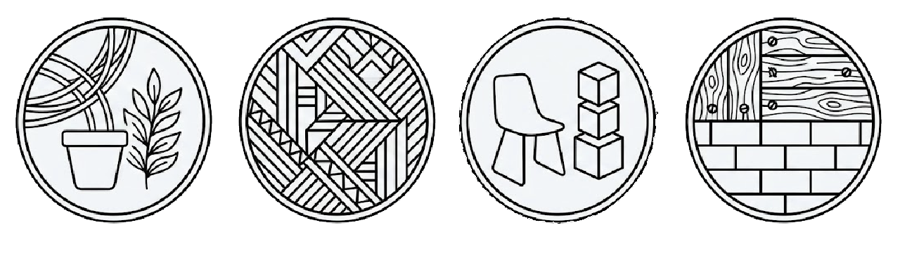
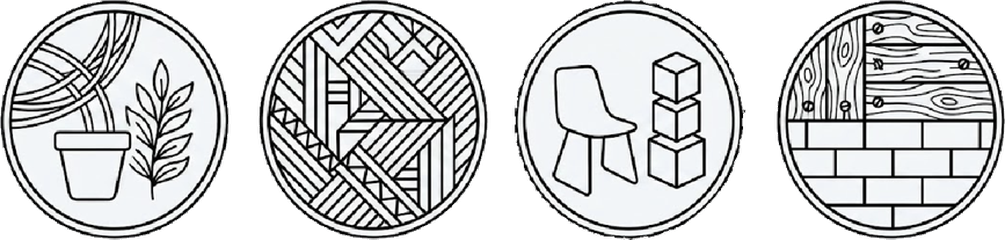
Add files via upload

diff --git a/assets/styles.css b/assets/styles.css
@@ -261,6 +261,8 @@ img { max-width: 100%; display: block; }
   font-family: var(--sans); font-size: 1rem; background: #fff;
 }
 .form textarea { min-height: 120px; resize: vertical; }
+/* Formulari su card bianca dentro sezioni scure: etichette grigio scuro (stesso grigio del footer) */
+.pains .form label { color: var(--ink); }
 .tab-forms { display: flex; gap: .6rem; flex-wrap: wrap; margin-bottom: 1.6rem; }
 
 /* ---------- Founders ---------- */
@@ -448,31 +450,33 @@ body.page-petrol .eyebrow { color: var(--teal); }
   .nav-links .nav-petrol { color: var(--teal); }
 }
 
-/* "Accedi" nel menu a scomparsa (solo mobile, ultima voce) */
+/* "Accedi" nel menu a scomparsa (solo mobile, ultima voce)
+   Stesso carattere delle altre voci, ma color corallo (anche da loggato) */
 .nav-links .nav-login { display: none; }
 @media (max-width: 1150px) {
-  .site-header.open .nav-links .nav-login { display: block; font-weight: 600; }
-  .site-header.open .nav-links .nav-login.logged { font-style: italic; font-family: var(--serif); }
+  .site-header.open .nav-links .nav-login { display: block; color: var(--coral); }
+  .site-header.open .nav-links .nav-login.logged { color: var(--coral); }
 }
 
 /* Riquadro citazione a forma di capsula */
 .quote--capsule { border-radius: 999px; padding: 2.2rem 3.2rem; }
 
-/* Riquadro evidenziato "Con una dose di..." */
+/* Testo "Con una dose di..." — corsivo colorato senza riquadro,
+   più grande del testo sopra (rapporto 10:13) */
 .hl-box {
-  background: #fff; border-radius: var(--radius-lg); padding: 1.5rem 2rem;
-  font-family: var(--serif); font-style: italic; font-size: 1.12rem; line-height: 1.55;
-  max-width: 70ch; margin-top: 1.2rem; box-shadow: var(--shadow-sm);
+  font-family: var(--serif); font-style: italic; font-size: 1.3rem; line-height: 1.55;
+  max-width: 70ch; margin-top: 1.4rem;
 }
-body.page-rosa .hl-box   { border: 2px solid var(--pink-d);  color: var(--pink-dd); }
-body.page-coral .hl-box  { border: 2px solid var(--coral);   color: var(--coral-d); }
-body.page-petrol .hl-box { border: 2px solid var(--teal);    color: var(--teal-d); }
+body.page-rosa .hl-box   { color: var(--pink-dd); font-size: 1.5rem; }
+body.page-coral .hl-box  { color: var(--coral); }
+body.page-petrol .hl-box { color: var(--teal); }
 
-/* Vignetta inserto in corsivo (petrolio) */
+/* Vignetta inserto in corsivo (petrolio) — a forma di capsula allungata,
+   sfondo bianco, scritta color petrolio, stessa dimensione del testo */
 .aside-note {
-  font-family: var(--serif); font-style: italic; color: var(--teal-d);
-  background: #fff; border-left: 5px solid var(--teal); border-radius: var(--radius);
-  padding: 1.3rem 1.5rem; box-shadow: var(--shadow-sm);
+  font-family: var(--serif); font-style: italic; color: var(--teal); font-size: 1rem;
+  background: #fff; border-radius: 999px;
+  padding: 1.7rem 2.6rem; box-shadow: var(--shadow-sm);
 }
 
 /* Card prezzi (sostituiscono le tabelle) */
@@ -493,9 +497,26 @@ body.page-petrol .hl-box { border: 2px solid var(--teal);    color: var(--teal-d
 .pline b { white-space: nowrap; }
 .pcard--alt { background: var(--teal-l); border-color: var(--teal); }
 
-/* Microtest illustrati (corallo) */
+/* Card consulenze (corallo): sfondo corallo chiaro chiaro + testo corallo scuro */
+.pcard--coral { background: var(--coral-l); border-color: var(--coral-l); }
+.pcard--coral h4, .pcard--coral .pline, .pcard--coral .pline b, .pcard--coral .cond { color: var(--coral-d); }
+.pcard--coral .pline { border-bottom-color: rgba(222,52,19,.28); }
+/* Card "shopping list" e "proposte linee guida": sfondo giallo chiaro + testo corallo */
+.pcard--giallo { background: var(--yellow-l); border-color: var(--yellow-l); }
+.pcard--giallo h4, .pcard--giallo .pline, .pcard--giallo .pline b, .pcard--giallo .cond { color: var(--coral); }
+.pcard--giallo .pline { border-bottom-color: rgba(255,76,43,.28); }
+
+/* Microtest illustrati (corallo) — card affiancate su desktop, in verticale su mobile */
+.mt-cards { display: grid; grid-template-columns: repeat(3,1fr); gap: 1.5rem; margin-top: 2rem; }
+.mt-cards .mt-item {
+  margin-top: 0; background: #fff; border: 1px solid var(--line);
+  border-radius: var(--radius); padding: 1.6rem; box-shadow: var(--shadow-sm);
+}
+@media (max-width: 900px) {
+  .mt-cards { grid-template-columns: 1fr; }
+}
 .mt-item { margin-top: 2rem; }
-.mt-item img { height: 54px; width: auto; }
+.mt-item img { height: 60px; width: auto; max-width: 100%; object-fit: contain; }
 .mt-item h4 { font-family: var(--serif); font-size: 1.25rem; margin-top: .6rem; }
 .mt-item p { color: var(--muted); max-width: 74ch; margin-top: .4rem; }
 .mt-item .durata { color: var(--coral); font-weight: 600; font-size: .9rem; margin-top: .4rem; }
@@ -507,11 +528,31 @@ body.page-petrol .hl-box { border: 2px solid var(--teal);    color: var(--teal-d
   background: #9ccfca; top: .5em;
 }
 
-/* Domande in corsivo nella home (stile .prov) */
-.hero .prov-lines { font-family: var(--serif); font-style: italic; font-size: 1.15rem; color: var(--teal-d); margin-top: 1rem; }
+/* Domande in corsivo nella home (stile .prov) — più grandi del testo non in corsivo (rapporto 10:12) */
+.hero .prov-lines { font-family: var(--serif); font-style: italic; font-size: 1.44rem; color: var(--teal-d); margin-top: 1rem; }
 .hero .prov-lines p { margin: 0; font-size: inherit; color: inherit; }
 
 @media (max-width: 900px) {
   .pcards, .pcards--2 { grid-template-columns: 1fr; }
   .quote--capsule { border-radius: var(--radius-lg); padding: 2rem; }
+  .aside-note { border-radius: var(--radius-lg); padding: 1.4rem 1.7rem; }
+}
+
+/* ===========================================================
+   Chi siamo — capsula accanto al testo (desktop) / vicina al
+   testo (mobile) + fascia unica immagine-testo
+   =========================================================== */
+.about-hero-grid { display: grid; grid-template-columns: 1.15fr .85fr; gap: 2.4rem; align-items: center; }
+.about-hero-grid .quote--capsule { margin: 0; }
+@media (max-width: 900px) {
+  .about-hero-grid { grid-template-columns: 1fr; gap: 1.4rem; }
+  .about-hero-grid .quote--capsule { margin-top: .4rem; }
+}
+
+.philo-band { display: grid; grid-template-columns: 1fr 1fr; align-items: stretch; background: var(--white); }
+.philo-band > img { width: 100%; height: 100%; object-fit: cover; }
+.philo-band .philo-text { padding: clamp(2.2rem, 5vw, 4.5rem); align-self: center; }
+@media (max-width: 900px) {
+  .philo-band { grid-template-columns: 1fr; }
+  .philo-band > img { max-height: 320px; }
 }

diff --git a/chi-siamo.html b/chi-siamo.html
@@ -33,21 +33,22 @@
 </header>
 
 <section class="page-hero ph--teal">
-  <div class="wrap">
-    <p class="eyebrow" data-i18n="nav.about">Quiénes somos</p>
-    <h1 data-i18n="about.h1">No miramos solo tu casa.<br>Te miramos a ti.</h1>
-    <p class="tag" data-i18n="about.lead">Somos una de las primeras start-ups de neuroarquitectura. Acompañamos el proceso proyectual en el diseño de ambientes domésticos, con atención al impacto real que producen en el cuerpo y en la mente de quien los habita.</p>
+  <div class="wrap about-hero-grid">
+    <div>
+      <p class="eyebrow" data-i18n="nav.about">Quiénes somos</p>
+      <h1 data-i18n="about.h1">No miramos solo tu casa.<br>Te miramos a ti.</h1>
+      <p class="tag" data-i18n="about.lead">Somos una de las primeras start-ups de neuroarquitectura. Acompañamos el proceso proyectual en el diseño de ambientes domésticos, con atención al impacto real que producen en el cuerpo y en la mente de quien los habita.</p>
+    </div>
+    <div class="quote quote--capsule"><p data-i18n="about.quote">“Diseñar con conciencia no es un capricho: es una herramienta para vivir mejor.”</p></div>
   </div>
 </section>
 
-<section class="section section--tight">
-  <div class="wrap">
-    <div class="quote quote--capsule"><p data-i18n="about.quote">“Diseñar con conciencia no es un capricho: es una herramienta para vivir mejor.”</p></div>
-    <div style="max-width:74ch;margin:2.6rem auto 0">
-      <h2 data-i18n="about.philoTitle">Diseñar con conciencia</h2>
-      <p class="muted" style="margin-top:1rem" data-i18n="about.philo1">Creamos Cápsula porque tu casa no debería ser solo un refugio funcional o un lugar “bonito”, sino un agente activo de tu bienestar físico y mental. <em>Vamos a la raíz: a quién eres y a cómo, de forma única, percibes el entorno, según tu historia personal y la biología de tu sistema nervioso.</em></p>
-      <p class="muted" style="margin-top:1rem" data-i18n="about.philo2">Así encontramos tu “cápsula”: la herramienta para diseñar un hogar a tu medida y potenciar tu bienestar, con un enfoque de <em>evidence-based design</em>.</p>
-    </div>
+<section class="philo-band">
+  <img src="assets/img/chi-siamo-divano.jpg" alt="Relajarse en el sofá de casa">
+  <div class="philo-text">
+    <h2 data-i18n="about.philoTitle">Diseñar con conciencia</h2>
+    <p class="muted" style="margin-top:1rem" data-i18n="about.philo1">Creamos Cápsula porque tu casa no debería ser solo un refugio funcional o un lugar “bonito”, sino un agente activo de tu bienestar físico y mental. <em>Vamos a la raíz: a quién eres y a cómo, de forma única, percibes el entorno, según tu historia personal y la biología de tu sistema nervioso.</em></p>
+    <p class="muted" style="margin-top:1rem" data-i18n="about.philo2">Así encontramos tu “cápsula”: la herramienta para diseñar un hogar a tu medida y potenciar tu bienestar, con un enfoque de <em>evidence-based design</em>.</p>
   </div>
 </section>
 

diff --git a/coral.html b/coral.html
@@ -38,7 +38,7 @@
     <h1><span class="pill-ico pill-ico--coral"></span>Cápsula Coral</h1>
     <p class="muted" style="max-width:70ch;margin-top:1.2rem" data-i18n="coral.p1">Cuando se diseña una casa, las decisiones se multiplican enseguida: colores, materiales, estilo, distribución, funciones, atmósferas. El riesgo es partir de imágenes, tendencias o gustos del momento, sin saber si esas elecciones respetan tu funcionamiento neuropsicológico y contribuyen de verdad a tu bienestar cotidiano.</p>
     <div class="hl-box" data-i18n="coral.hl">Con una dosis de Cápsula Coral recibirás una guía de diseño a tu medida, con indicaciones que responden a tu manera única de habitar. No esperes más y compra ya el test completo.</div>
-    <p class="muted" style="max-width:70ch;margin-top:1.2rem" data-i18n="coral.p3">Si ya has hecho la prueba de test gratuita, podrás desbloquear los otros dos microtests y todos los resultados que componen tu <strong style="color:var(--coral);font-family:var(--serif);font-style:italic">Carta Habitacional</strong>.</p>
+    <p class="muted" style="max-width:70ch;margin-top:1.2rem" data-i18n="coral.p3">Si ya has hecho la prueba de test gratuita, podrás desbloquear los otros dos microtests y todos los resultados que componen tu <strong style="color:var(--coral);font-family:var(--serif);font-style:italic;font-size:1.1em">Carta Habitacional</strong>.</p>
     <p class="muted" style="max-width:70ch;margin-top:1rem" data-i18n="coral.p4">Estará en tus manos decidir si usarla como herramienta de autoproyección guiada o como base para el servicio de asesoría profesional que más te convenga.</p>
     <div class="hero-cta">
       <a class="btn btn--capsule btn--coralc" href="#precios-test" data-i18n="coral.cta1">Compra el test completo</a>
@@ -53,6 +53,7 @@
   <div class="wrap">
     <p class="muted" style="max-width:74ch;margin:1.2rem auto 0" data-i18n="coral.t1desc">Efectuando el pago, entrarás en tu página personal, donde podrás realizar los tres microtests audiovisuales y consultar en todo momento los resultados de tu Carta Habitacional (¡y también los de los demás miembros de tu núcleo habitacional!)</p>
 
+    <div class="mt-cards">
     <div class="mt-item">
       <img src="assets/img/test-profili.png" alt="Perfiles funcionales">
       <h4 data-i18n="coral.mt1t">Test perfil funcional</h4>
@@ -71,6 +72,7 @@
       <h4 data-i18n="coral.mt3t">Test estilo de interiorismo</h4>
       <p data-i18n="coral.mt3d">Identifica el estilo de interiorismo más adecuado (con su materialboard) del encuentro entre perfil funcional y las experiencias de vida que la persona asocia a cada acción cotidiana, definiendo también el concept en palabras clave (emociones-atmósferas) para las tres zonas funcionales principales de la casa.</p>
       <p class="durata" data-i18n="coral.mtTime">Duración: 2-3 min.</p>
+    </div>
     </div>
 
     <div class="pcards" style="margin-top:2.4rem">
@@ -107,13 +109,13 @@
       <p class="note" data-i18n="coral.t2note">Incluye un único encuentro de conocimiento por videollamada/presencial + únicamente 3 alternativas de diseño; no está prevista ninguna revisión. Consulta el precio para encuentros extra de revisión y eventuales modificaciones.</p>
       <p style="margin:.8rem 0"><a class="btn btn--link" href="#" download data-i18n="cta.sample">Ver Sample ↓</a></p>
       <div class="pcards pcards--2">
-        <div class="pcard">
+        <div class="pcard pcard--coral">
           <h4 data-i18n="coral.pcRoom">Estancia</h4>
           <div class="pline"><span data-i18n="coral.pc1">9–15 m²</span><b>250 €</b></div>
           <div class="pline"><span data-i18n="coral.pc2">15–20 m²</span><b>300 €</b></div>
           <div class="pline"><span data-i18n="coral.pc3">Desde 21 m²</span><b>350 €</b></div>
         </div>
-        <div class="pcard">
+        <div class="pcard pcard--coral">
           <h4 data-i18n="coral.pcHouse">Casa entera</h4>
           <div class="pline"><span>30–50 m²</span><b>400 €</b></div>
           <div class="pline"><span>51–80 m²</span><b>550 €</b></div>
@@ -131,17 +133,17 @@
       <p class="note" data-i18n="coral.t3note">Incluye un único encuentro de conocimiento por videollamada/presencial + 3 propuestas iniciales + un total de revisiones que se establece y comunica desde el inicio.</p>
       <p style="margin:.8rem 0"><a class="btn btn--link" href="#" download data-i18n="cta.sample">Ver Sample ↓</a></p>
       <div class="pcards">
-        <div class="pcard">
+        <div class="pcard pcard--coral">
           <h4 data-i18n="coral.pj1">Casa Low Budget</h4>
           <div class="pline"><span data-i18n="coral.pjUp50">Hasta 50 m²</span><b>2.500 €</b></div>
           <div class="pline"><span data-i18n="coral.pjOver50">Más de 50 m²</span><b>+40–50 €/m²</b></div>
         </div>
-        <div class="pcard">
+        <div class="pcard pcard--coral">
           <h4 data-i18n="coral.pj2">Casa Calidad</h4>
           <div class="pline"><span data-i18n="coral.pjUp50">Hasta 50 m²</span><b>4.000 €</b></div>
           <div class="pline"><span data-i18n="coral.pjOver50">Más de 50 m²</span><b>+70–90 €/m²</b></div>
         </div>
-        <div class="pcard">
+        <div class="pcard pcard--giallo">
           <h4>Shopping List</h4>
           <div class="pline"><span data-i18n="coral.pjSup">Suplemento</span><b>+10–20 €/m²</b></div>
           <p class="cond" data-i18n="coral.pjSupN">Según el nivel de detalle y la gestión de las compras.</p>
@@ -155,20 +157,20 @@
       <p class="lead" style="font-size:1.05rem;margin-top:.2rem" data-i18n="coral.t4sub">Asesoría para la elección de la casa</p>
       <p class="muted" style="margin-top:.7rem" data-i18n="coral.t4desc">Para tener un parecer cualificado sobre las casas que estás valorando comprar y elegir con mayor conciencia la más a tu medida. Ofrecemos acompañamiento a las visitas (online o en vivo) y parecer favorable/desfavorable con posibles soluciones de diseño (en formato de líneas guía).</p>
       <div class="pcards">
-        <div class="pcard">
+        <div class="pcard pcard--coral">
           <h4 data-i18n="coral.v1">Acompañamiento visitas online</h4>
           <div class="pline"><span data-i18n="coral.vp3">Pack 3 visitas</span><b>150 €</b></div>
           <div class="pline"><span data-i18n="coral.vp5">Pack 5 visitas</span><b>230 €</b></div>
           <div class="pline"><span data-i18n="coral.vpx">Visita extra</span><b>60 €</b></div>
         </div>
-        <div class="pcard">
+        <div class="pcard pcard--coral">
           <h4 data-i18n="coral.v2">Acompañamiento visitas presenciales</h4>
           <p class="cond" data-i18n="coral.v2n">Solo Barcelona</p>
           <div class="pline"><span data-i18n="coral.vp3">Pack 3 visitas</span><b>250 €</b></div>
           <div class="pline"><span data-i18n="coral.vp5">Pack 5 visitas</span><b>390 €</b></div>
           <div class="pline"><span data-i18n="coral.vpx">Visita extra</span><b>90 €</b></div>
         </div>
-        <div class="pcard pcard--alt">
+        <div class="pcard pcard--giallo">
           <h4 data-i18n="coral.v3">Propuestas de líneas guía y parecer final</h4>
           <div class="pline"><span data-i18n="coral.v3a">1 casa</span><b>200 €</b></div>
           <div class="pline"><span data-i18n="coral.v3b">Pack 3 casas</span><b>450 €</b></div>
@@ -235,7 +237,7 @@ CAPSULA_I18N.add({
     "coral.prov":"You’ve bought a home, you’re looking for one, or you need to start a project and want a clear direction?",
     "coral.p1":"When designing a home, the decisions pile up fast: colours, materials, style, layout, functions, atmospheres. The risk is starting from images, trends or the tastes of the moment, without knowing whether those choices respect your neuropsychological functioning and truly contribute to your everyday wellbeing.",
     "coral.hl":"With a dose of Cápsula Coral you’ll receive a design guide made for you, with indications that answer your unique way of inhabiting. Don’t wait — buy the full test now.",
-    "coral.p3":"If you’ve already taken the free test trial, you can unlock the other two microtests and all the results that make up your <strong style='color:var(--coral);font-family:var(--serif);font-style:italic'>Living Chart</strong>.",
+    "coral.p3":"If you’ve already taken the free test trial, you can unlock the other two microtests and all the results that make up your <strong style='color:var(--coral);font-family:var(--serif);font-style:italic;font-size:1.1em'>Living Chart</strong>.",
     "coral.p4":"It will then be up to you to decide whether to use it as a guided self-design tool or as the basis for the professional advisory service that suits you best.",
     "coral.cta1":"Buy the full test","coral.cta2":"Request advisory",
     "coral.t1Eyebrow":"Mi casa a mi medida TEST","coral.t1":"Buy the full test",
@@ -281,7 +283,7 @@ CAPSULA_I18N.add({
     "coral.prov":"Hai comprato casa, la stai cercando o devi iniziare un progetto e hai bisogno di una direzione chiara?",
     "coral.p1":"Quando si progetta una casa, le decisioni diventano subito tante: colori, materiali, stile, distribuzione, funzioni, atmosfere. Il rischio è partire da immagini, tendenze o gusti del momento, senza sapere se quelle scelte rispettano il tuo funzionamento neuropsicologico e contribuiscono davvero al tuo benessere quotidiano.",
     "coral.hl":"Con una dose di Cápsula Corallo riceverai una guida progettuale su misura per te, con indicazioni che rispondano al tuo modo unico di abitare. Non aspettare e acquista subito il test completo.",
-    "coral.p3":"Se hai già fatto la prova di test gratuita, potrai sbloccare gli altri due microtest e tutti i risultati che compongono la tua <strong style='color:var(--coral);font-family:var(--serif);font-style:italic'>Carta Abitativa</strong>.",
+    "coral.p3":"Se hai già fatto la prova di test gratuita, potrai sbloccare gli altri due microtest e tutti i risultati che compongono la tua <strong style='color:var(--coral);font-family:var(--serif);font-style:italic;font-size:1.1em'>Carta Abitativa</strong>.",
     "coral.p4":"Starà a te poi decidere se usarla come strumento di autoprogettazione guidata oppure come base per il servizio di consulenza professionale che fa più a caso tuo.",
     "coral.cta1":"Acquista il test completo","coral.cta2":"Richiedi consulenza",
     "coral.t1Eyebrow":"TEST Mi casa a mi medida","coral.t1":"Acquista il test completo",

diff --git a/petroleo.html b/petroleo.html
@@ -39,7 +39,7 @@
     <p class="muted" style="max-width:70ch;margin-top:1.2rem" data-i18n="pet.p1">Cuando llega el momento de comprar, orientarse entre catálogos, tiendas, productos online e inspiraciones puede volverse dispersivo... El riesgo es comprar piezas que funcionan por separado, pero que no construyen una casa realmente coherente, duradera y adecuada para ti.</p>
     <div class="hl-box" data-i18n="pet.hl">Con una dosis de Cápsula Petróleo recibirás un catálogo personalizado de mobiliario y acabados coherente con tu perfil neuropsicológico. Productos no solo bonitos o de moda, sino pensados para tu bienestar.</div>
     <p class="muted" style="max-width:70ch;margin-top:1.2rem" data-i18n="pet.p2">El catálogo nace de los resultados del test y de selecciones estudiadas por nosotras en colaboración con tiendas físicas, productores, carpinteros, artesanos y comercios locales afiliados.</p>
-    <p class="muted" style="max-width:70ch;margin-top:1rem" data-i18n="pet.p3">No es una lista genérica de productos online, sino una guía para comprar con más criterio, valorizar la venta física y local y contrarrestar la fast fashion del interiorismo.</p>
+    <p class="muted" style="max-width:70ch;margin-top:0" data-i18n="pet.p3">No es una lista genérica de productos online, sino una guía para comprar con más criterio, valorizar la venta física y local y contrarrestar la fast fashion del interiorismo.</p>
     <div class="grid-2" style="align-items:center;margin-top:1.6rem">
       <div class="hero-cta" style="margin-top:0">
         <a class="btn btn--capsule btn--petrolc" href="#catalogo" data-i18n="pet.cta1">Compra tu catálogo personalizado</a>